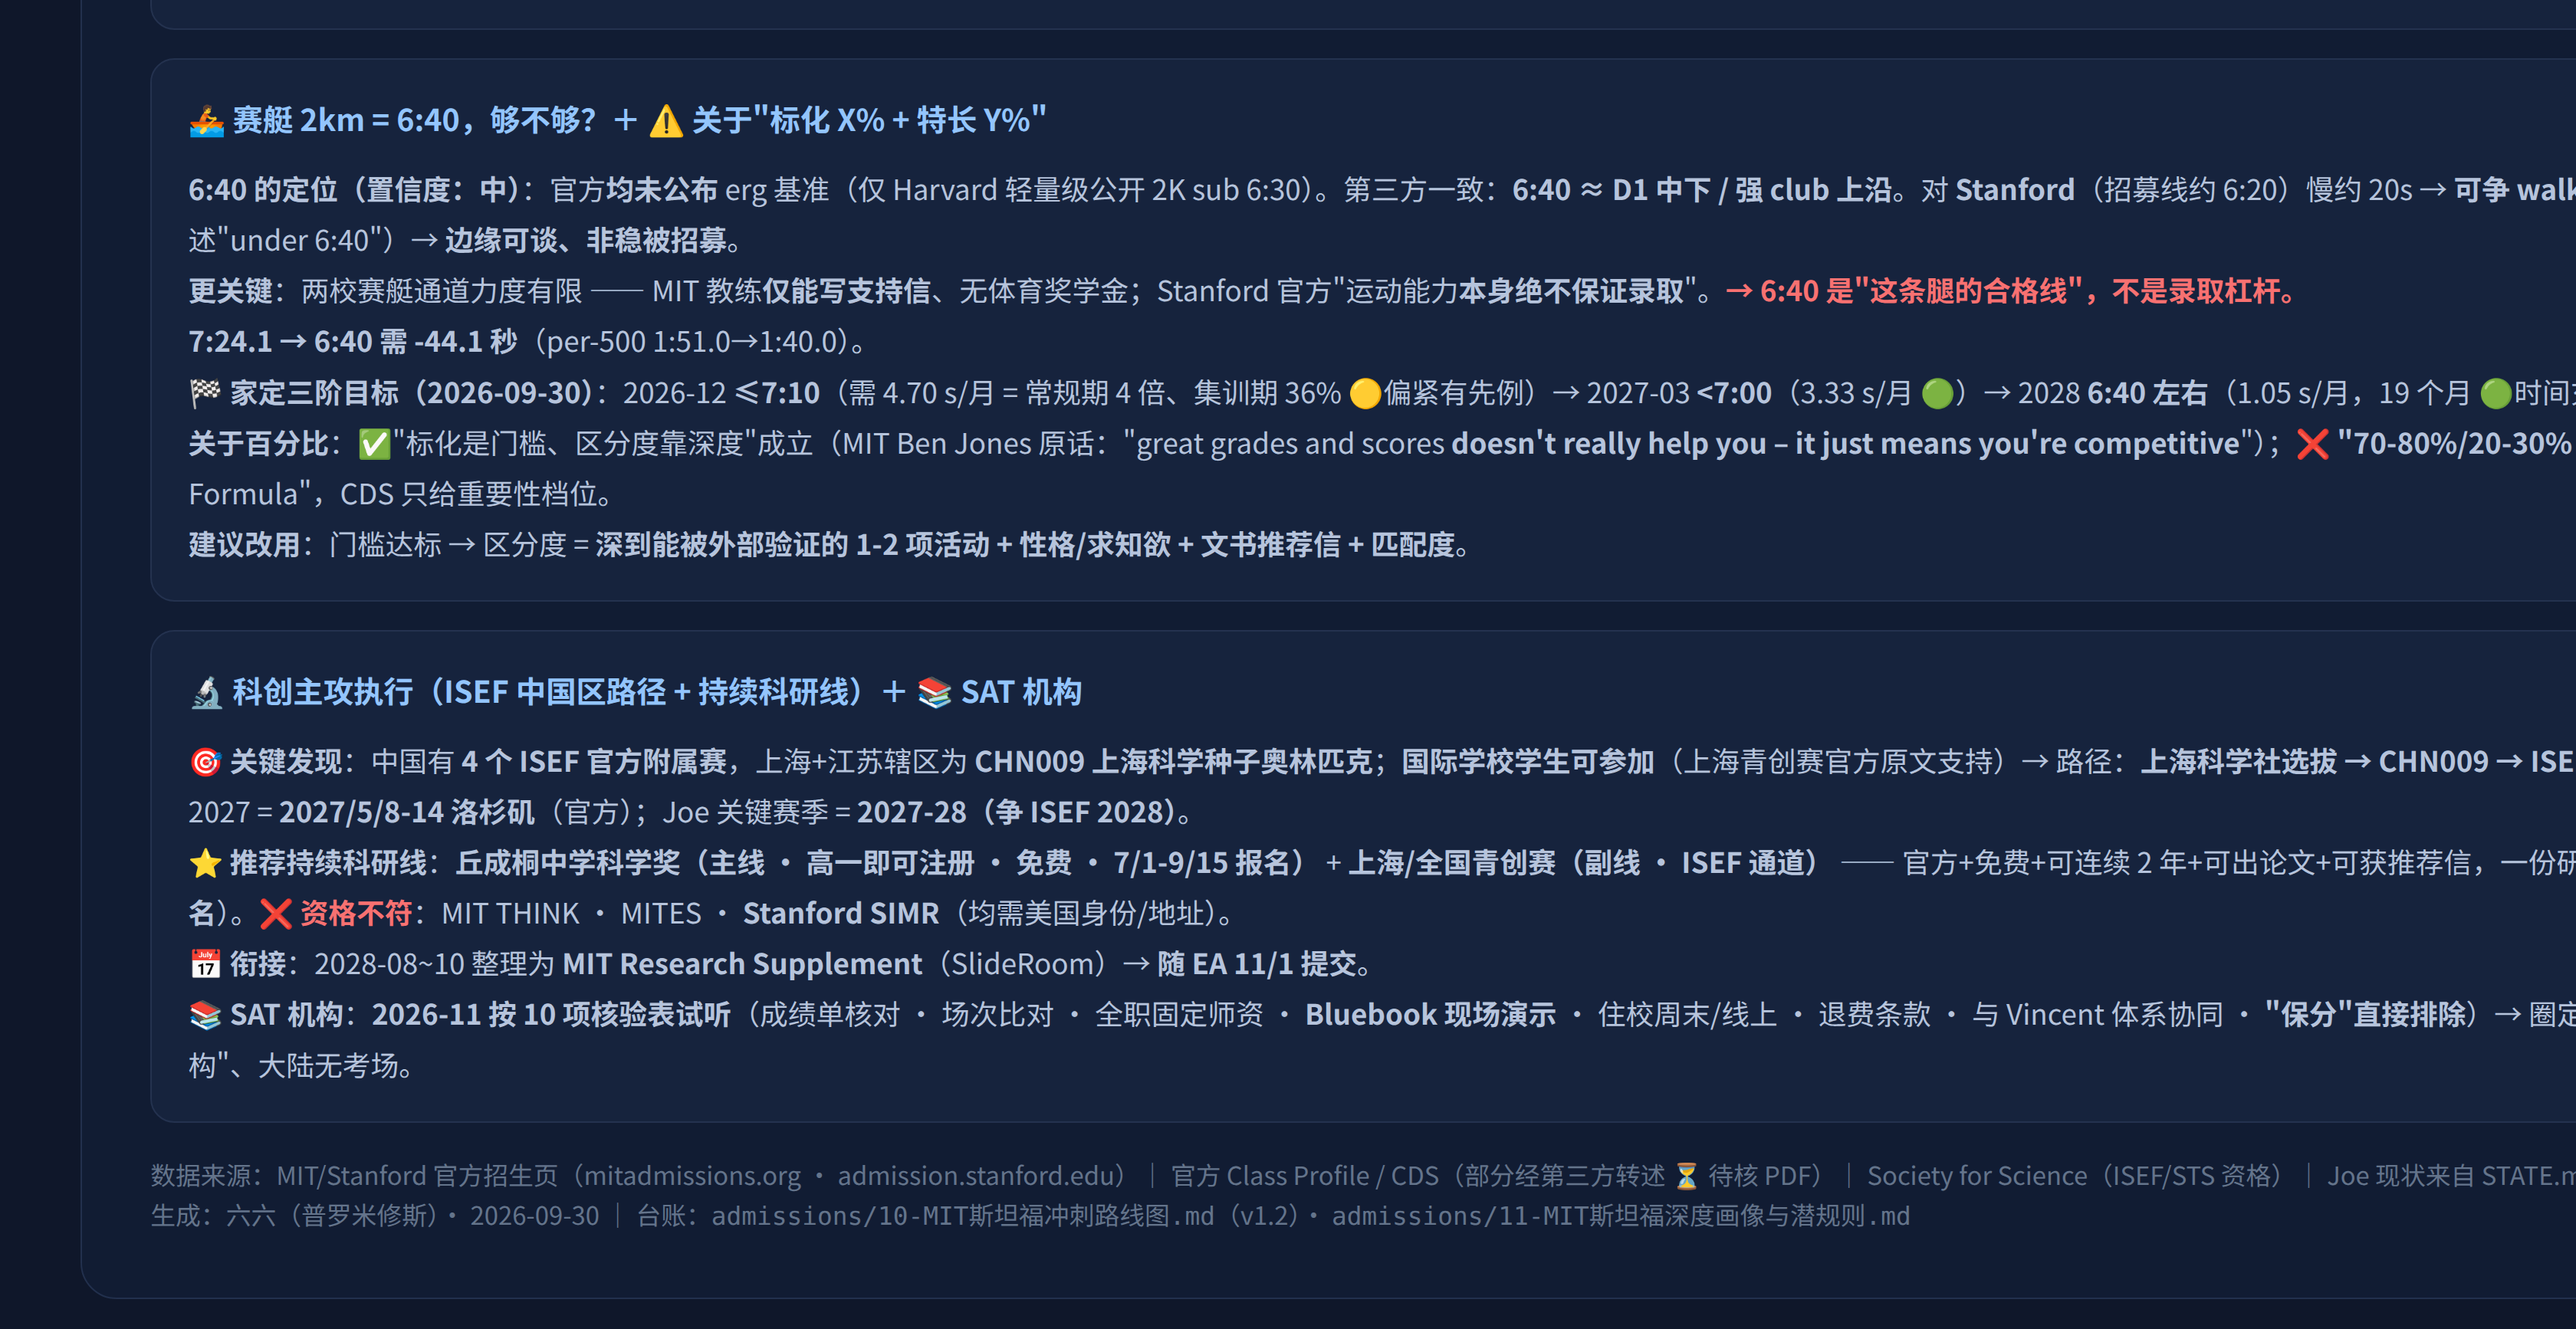
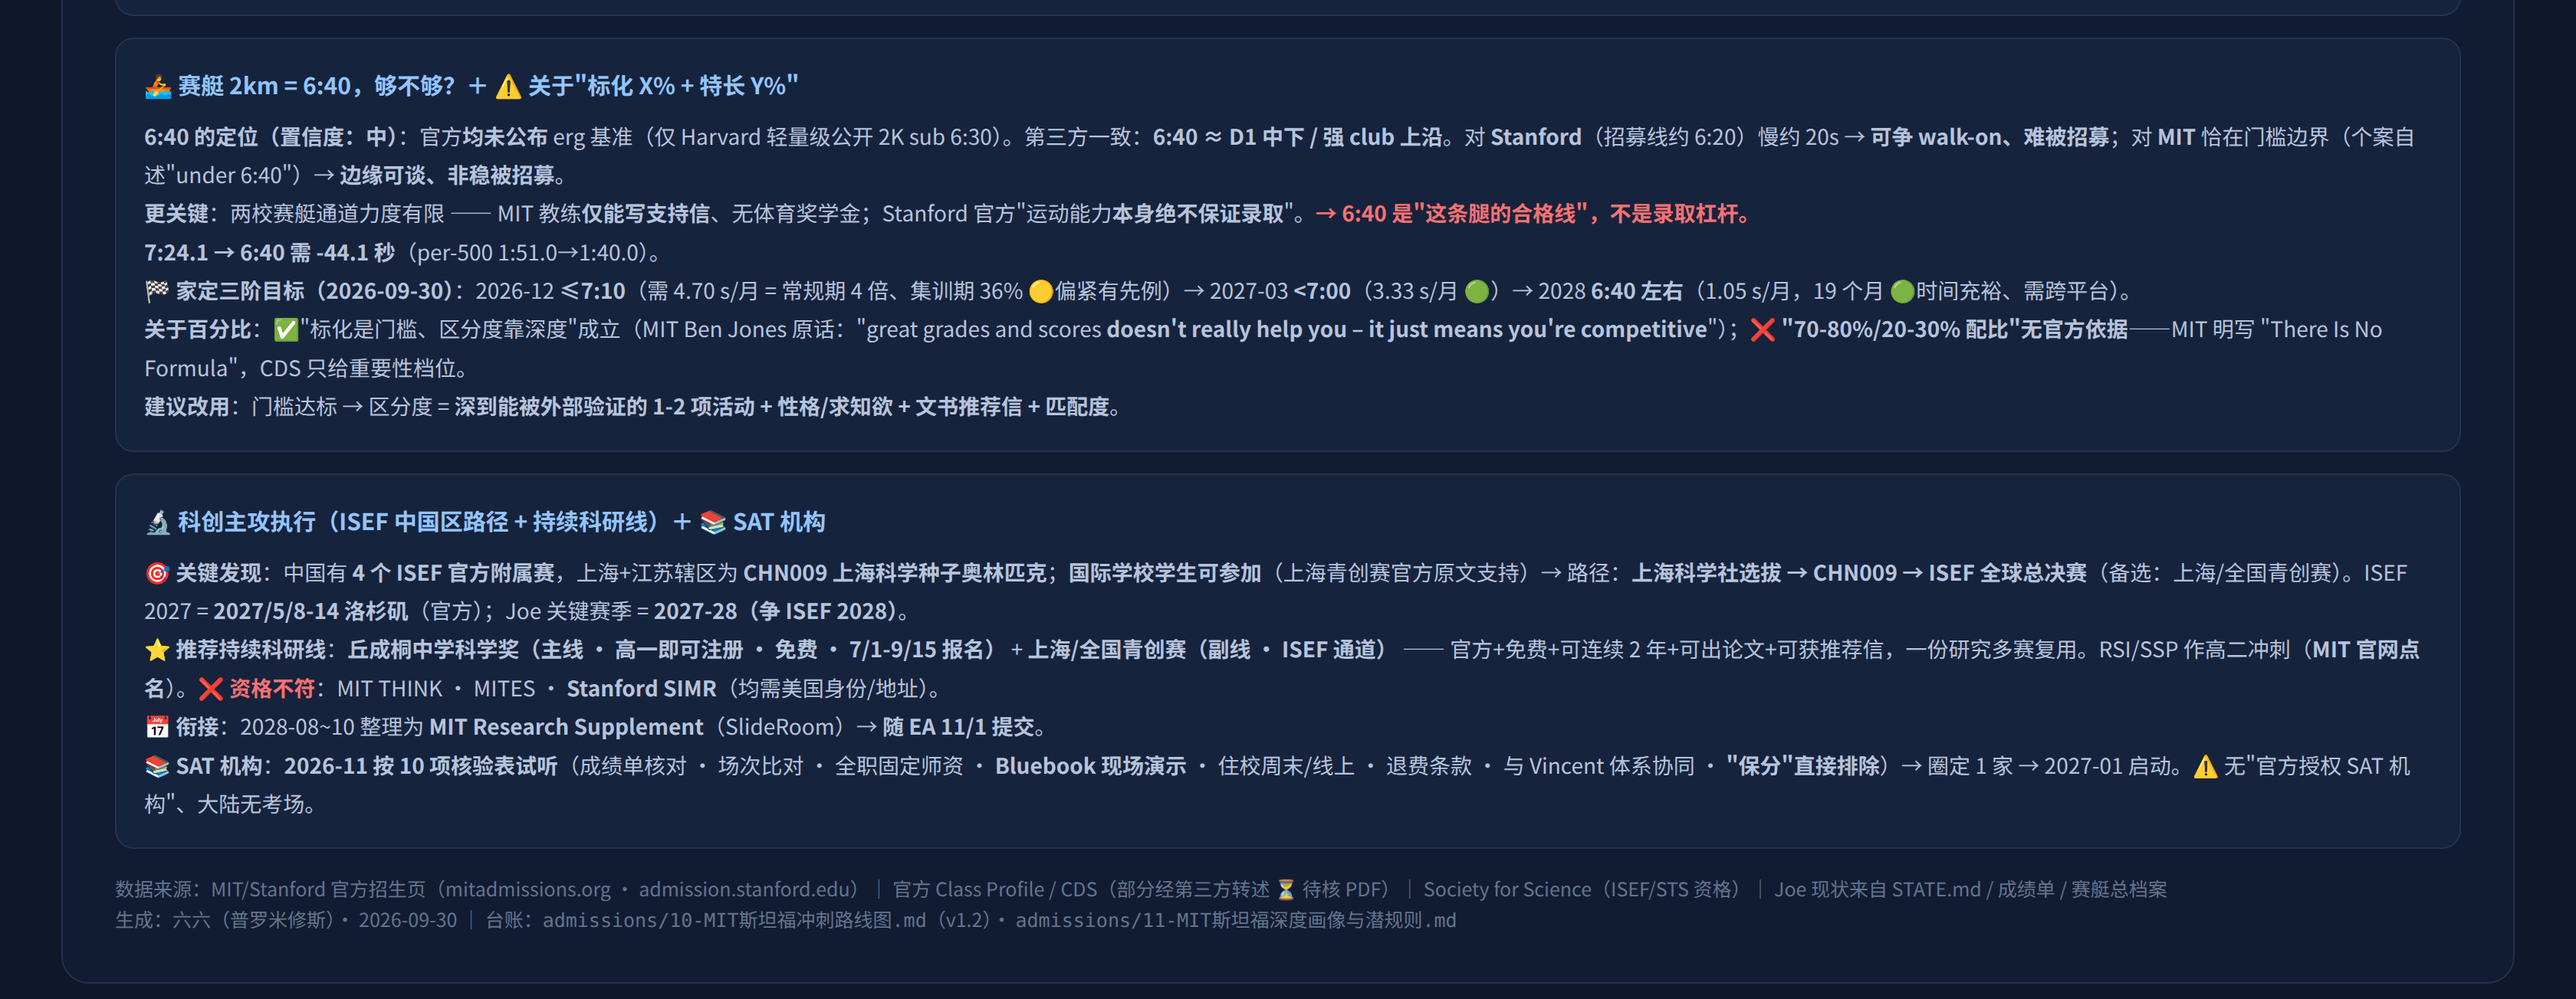
🖼 路线图按 body 宽 1680px 重渲（修复右侧 24% 被裁）+ 分页图重生成，脚本校验通过

diff --git a/knowledge/skills/joe-academic-state-ops/SKILL.md b/knowledge/skills/joe-academic-state-ops/SKILL.md
@@ -52,6 +52,23 @@ tags: [joe, state, toefl, mock, checklist, curator-managed]
 5. **只从 `/root/joe-growth` 跑 git**：tracker 目录无 `.git`，命令会上溯污染 `/root` 的物流仓库（见下条红线）。
 6. **澄清超时不悬空**：`clarify` 10 分钟无应答时，按不重复口径先入账 + 显式标注假设，等家主回来一句修正即可；不要因为等确认而把"记下入账"的指令搁置。
 
+## 🎯 分阶段目标入档（家主口述 target 时）
+
+家主给出阶段性目标（如测功仪 12 月 ≤7:10 → 次年 3 月 <7:00 → 2028 6:40 左右）时，按此走，**不要只把数字抄进档**：
+
+1. **先算再写**：脚本算「每段需提升 X 秒 ÷ 月数 = 需 Y s/月」，并拉**历史实测速率**对照（同项目的常规期 vs 集训期）→ 给 🟢/🟡/🔴 判定 + 点出最大风险项（如与期末/标化撞车的月份）。禁止拍脑袋说"能做到"
+2. **口径并列，不覆盖**：队/教练定的线与家主定的线**两条都留**、各自标注（"队定底线 7:20 ｜ 家主目标 7:10"）；文档里旧目标不删，改成与新目标并列
+3. **落三处 + 一图**：① 域总档案（master dossier）② 路线图/时间线文档（目标 + 所需速率 + 参照速率）③ STATE.md 巡检记录行 ④ 重渲染一页图
+4. **配支撑手段表**（每段目标 → 具体训练/学习手段），目标才可执行
+5. 重渲染一页图/看板后，**要看图确认新目标真的画进去了**（`vision_analyze`），并断言线上产物宽高已更新
+
+## ⏱ 时间/成绩数字的解析陷阱（mm:ss）
+
+- **禁止把 `7:24.1` 当成 `7.24` 参与运算**：`7.24*60+0.1 = 434.5` → 显示成 **7:14.5**，静默差 10 秒，足以让整张目标判定表全错。解析一律写 `m, s = t.split(":"); m*60+float(s)`（`"7:24.1"` → 444.1）
+- 回显用 `f"{int(x//60)}:{x%60:04.1f}"`；划船另有**每 500m 分速**（2km ÷ 4）作跨项目可比口径
+- 成绩入库**连口径一起写**（"PB 7:24.1（集训收官）｜队测 7:27.2"）；只写数字会在下个会话被当成同一口径比较
+- 数字进文档前**跑脚本复核一遍**：这类"小数为分钟"的笔误自查能抓到，别指望用户替你把关
+
 ## 📖 STATE.md 内容级更新 — patch 锚点陷阱（2026-08-21 实战）
 
 **症状：** 巡检记录表（🕒 自动化巡检记录）大量行以相似文本开头（如多行都是"每日托福提醒（冲刺集训）"），直接拿"某一行"做 patch old_string 会命中 3+ 行 → 报 `Found 3 matches for old_string`。
@@ -91,6 +108,9 @@ new: 同一行 + 新增行们 + 原标题
 - ❌ 只推 main 不合并 gh-pages → 线上看不到任何更新（gh-pages 才是部署分支）
 - ❌ 凭会话印象写日期 → 跨天必错；带日期的记录先 `date`
 - ❌ 估算条目与新增实付不查重就累加 → 重复计费（先查重叠、按不重复口径入账并留 ⚠待确认）
+- ❌ mm:ss 写成小数参与运算（`7.24` 当 7 分 24 秒）→ 静默差 10 秒，目标判定全错；必须 `分*60+秒`
+- ❌ 家定新目标直接覆盖旧的队定目标 → 两条口径要并列（底线 / 目标），并标注来源
+- ❌ 只抄目标数字、不算所需速率与历史速率 → 目标不可评估；先算 s/月 再下判定
 
 ## 参考文件
 - `references/toefl-dual-source-mock-data.md` — 托福模考双口径累计数据（8/16 + 8/19）与跨模考趋势解读法
